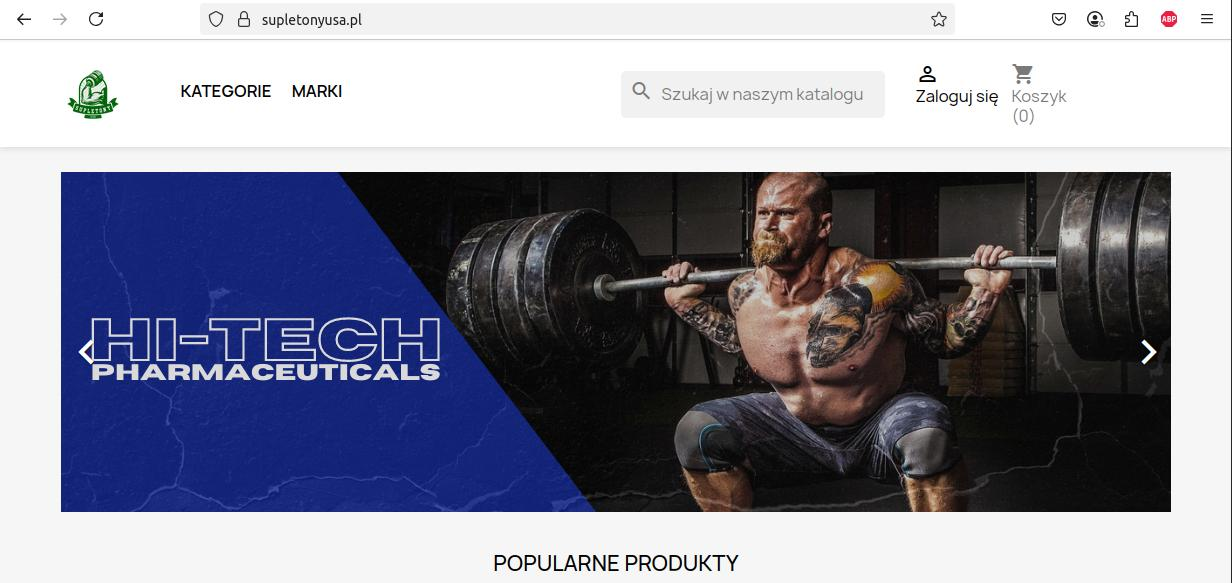
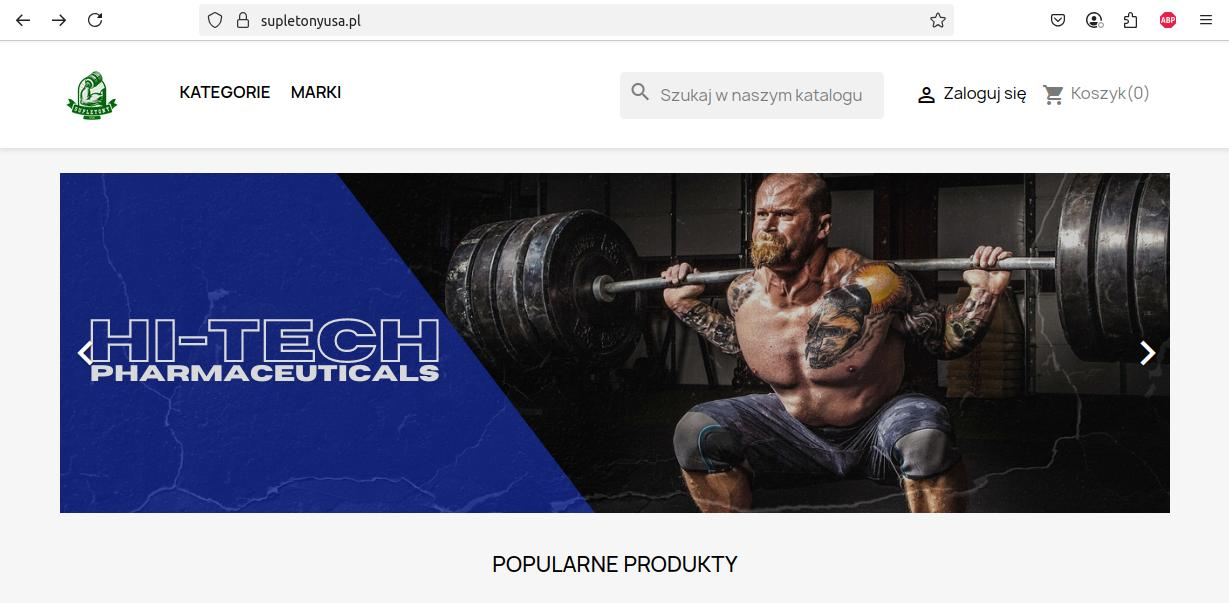
new better view screen

diff --git a/README.md b/README.md
@@ -6,7 +6,12 @@ Visual modification of the website header in the customer PrestaShop theme.
 
 ## Screenshots
 
+**Before Changes View**
+
 ![Before Changes View](/lookOut/BaseView.jpg)
+
+**After Changes View**
+
 ![After Changes View](/lookOut/AfterChangesView.jpg)
 
 
